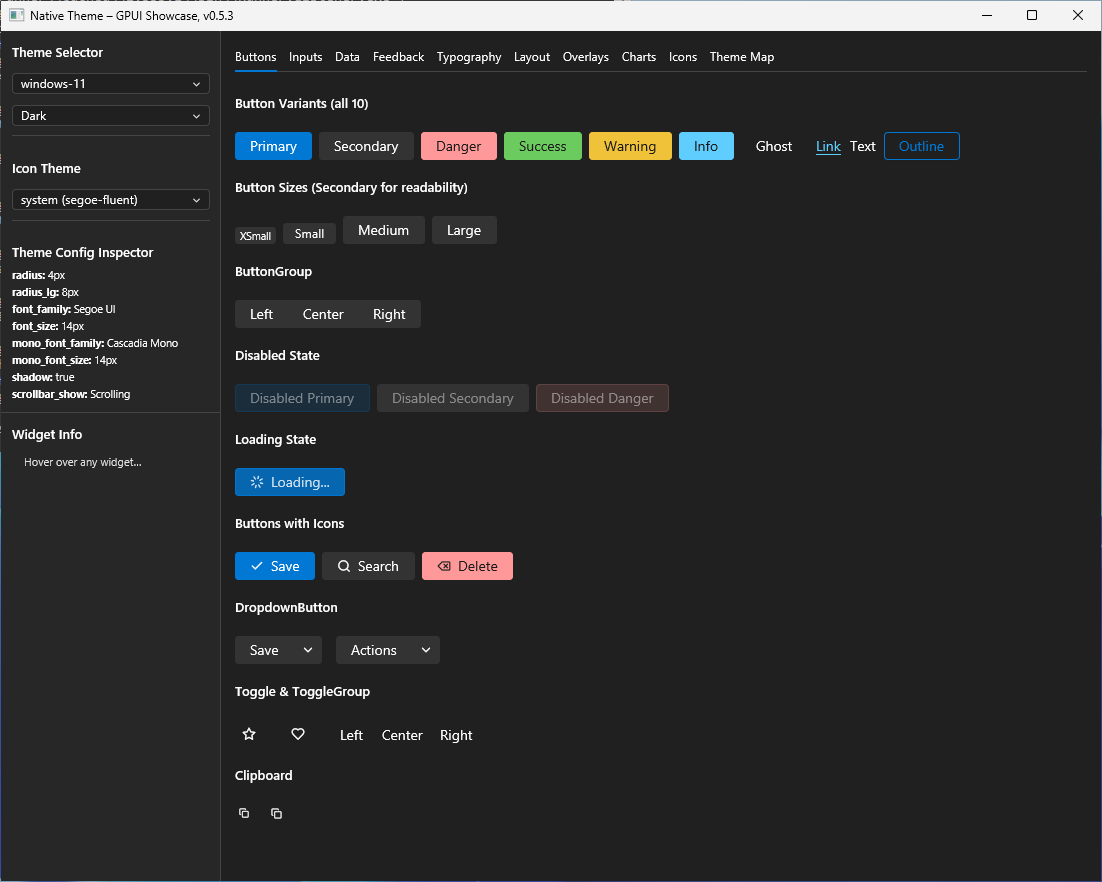
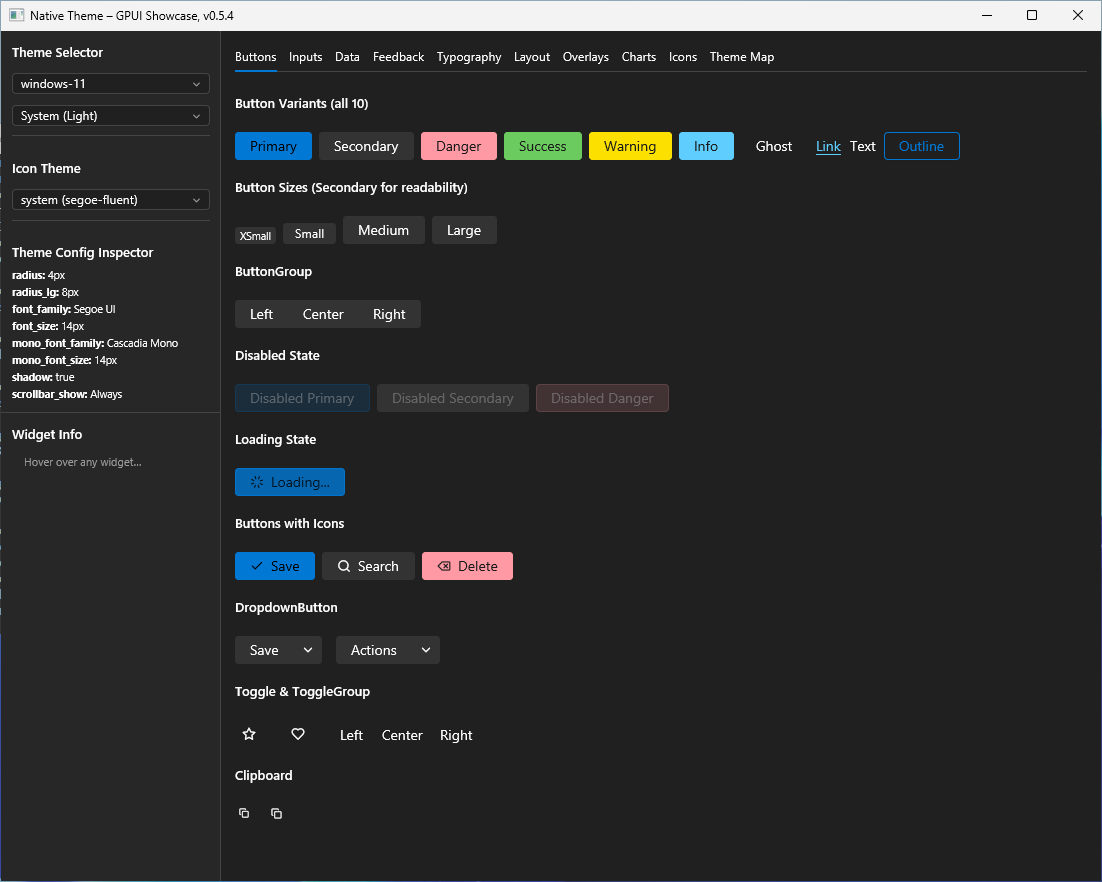
docs: refresh all showcase screenshots for v0.5.4

diff --git a/connectors/native-theme-gpui/examples/showcase.rs b/connectors/native-theme-gpui/examples/showcase.rs
@@ -5727,6 +5727,11 @@ fn main() {
                             };
                             s.color_mode = mode;
                             s.is_dark = is_dark;
+                            // Update the color mode selector dropdown
+                            let label = SharedString::from(mode.label());
+                            s.dark_mode_select.update(cx, |select, cx| {
+                                select.set_selected_value(&label, window, cx);
+                            });
                         }
 
                         // Override theme if --theme was specified
